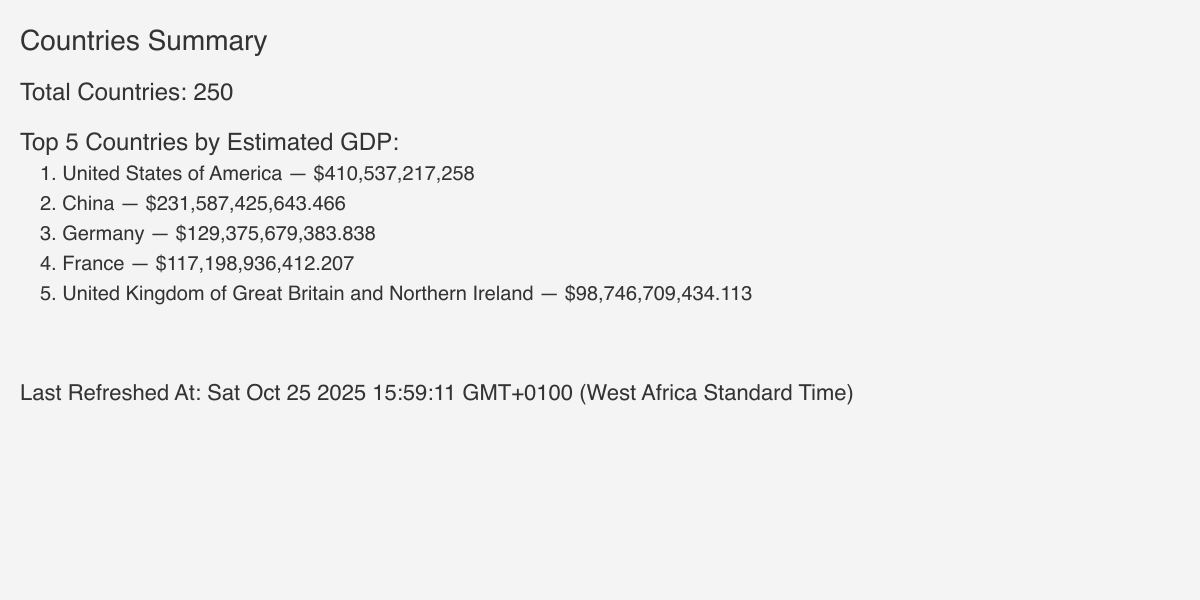
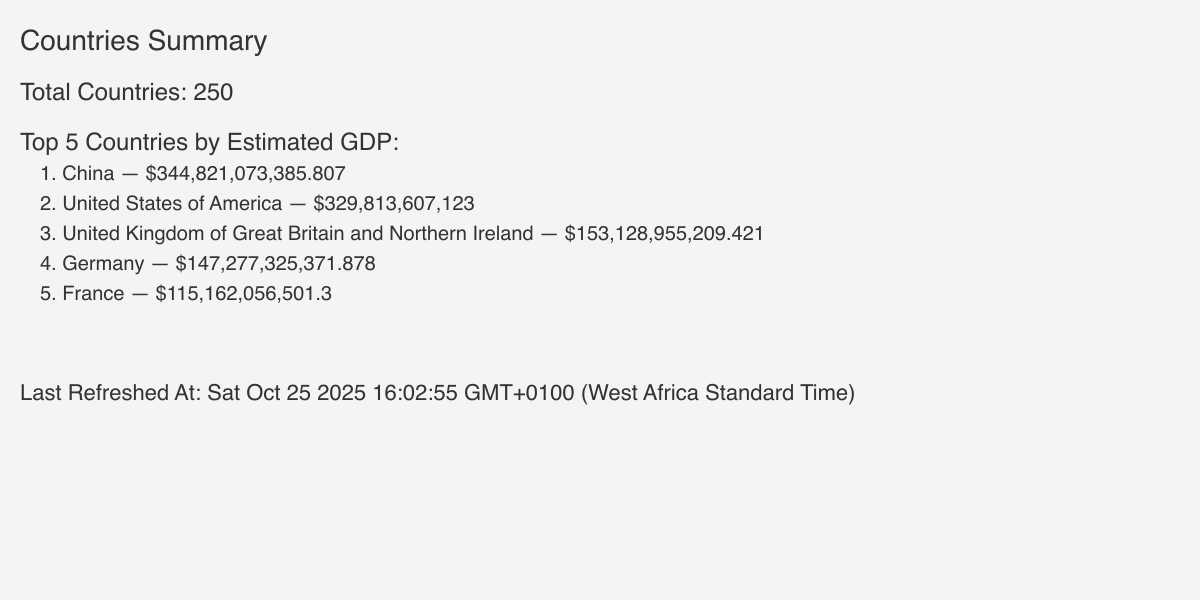
Update gateway

Changed region(s): [[0.0308, 0.27, 0.6475, 0.51], [0.3083, 0.63, 0.7092, 0.69]]

diff --git a/gateway.js b/gateway.js
@@ -38,6 +38,18 @@ app.use('/stage-1', createProxyMiddleware({
   }
 }));
 
+app.use('/stage-2', createProxyMiddleware({
+  target: 'http://localhost:3003',
+  changeOrigin: true,
+  pathRewrite: {
+    '^/stage-2': '', // Remove /stage-1 prefix when forwarding
+  },
+  onError: (err, req, res) => {
+    console.error('Proxy error for stage-2:', err.message);
+    res.status(502).json({ error: 'stage-2 server unavailable' });
+  }
+}));
+
 // Root endpoint
 app.get('/', (req, res) => {
   res.json({
@@ -54,4 +66,5 @@ app.listen(PORT, () => {
   console.log(`Gateway server running on http://localhost:${PORT}`);
   console.log(`Stage-0 accessible at http://localhost:${PORT}/stage-0`);
   console.log(`Stage-1 accessible at http://localhost:${PORT}/stage-1`);
+  console.log(`Stage-2 accessible at http://localhost:${PORT}/stage-2`);
 });
